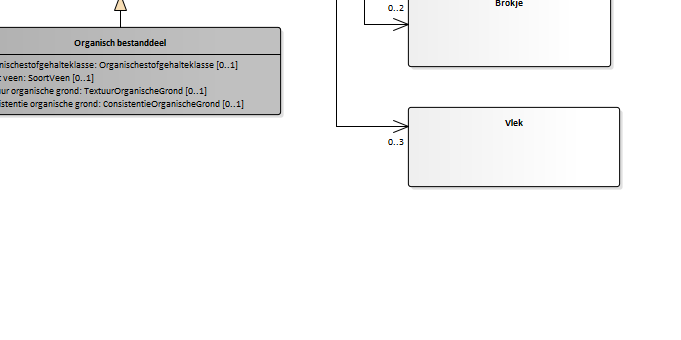
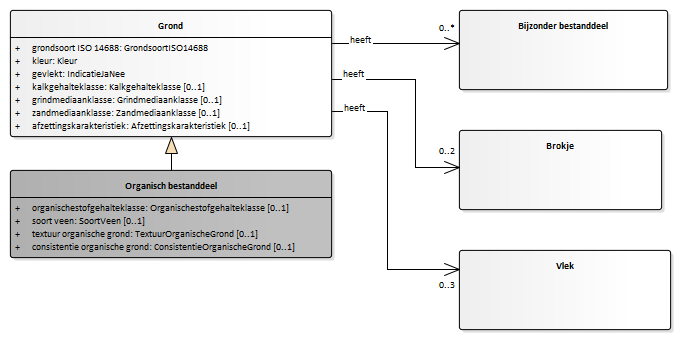
Conceptualmodel-ToegepastgeotechnischbooronderzoekBHR-AGconceptueel-0.1-1-20200401-20200514-223227

diff --git a/data/BHR-AG-cat.msword.html b/data/BHR-AG-cat.msword.html
@@ -13,7 +13,7 @@
    <body>
       <p>Conceptual model/Toegepast geotechnisch booronderzoek (BHR-AG) conceptueel/20200401</p>
       <p>Imvertor: 1.59.4</p>
-      <p>Model release: Conceptualmodel-ToegepastgeotechnischbooronderzoekBHR-AGconceptueel-0.1-1-20200401-20200514-220239</p>
+      <p>Model release: Conceptualmodel-ToegepastgeotechnischbooronderzoekBHR-AGconceptueel-0.1-1-20200401-20200514-223227</p>
       <hr>
       <section>
          <h1>Artikel 1 Definitie van registratieobject, entiteiten en attributen</h1>
@@ -121,14 +121,10 @@
                               
                               <p>De ondergrond wordt beschouwd als opgebouwd uit lagen en dat zijn homogene eenheden
                                  die zich vooral in horizontale richting uitstrekken en in verticale richting duidelijk
-                                 begrensd zijn. Een laag bestaat uit grond of uit bijzonder materiaal.
-                              </p>
-                              
-                              <p>Een laag in een boorprofiel is een laag waarvan de grenzen in de monsters bepaald
+                                 begrensd zijn. Een laag bestaat uit grond of uit bijzonder materiaal.<br clear="none">
+                                 Een laag in een boorprofiel is een laag waarvan de grenzen in de monsters bepaald
                                  of uit het boorgedrag afgeleid zijn of waarvan de grenzen kunstmatig zijn bepaald.
-                                 Onder NEN-EN-ISO 14688-1 kan de begrenzing voortkomen uit de methodiek omdat lagen
-                                 daarin een minimale en een maximale dikte kennen. In dat geval vertegenwoordigt de
-                                 laag in feite een beschrijfinterval. 
+                                 
                               </p>
                               
                            </td>
@@ -289,9 +285,8 @@
                               <td>
                                  
                                  <p>De <em>ondergrens</em> moet groter zijn dan de <em>bovengrens</em> van de laag.<br clear="none">
-                                    Het verschil tussen de <em>ondergrens</em> en de <em>bovengrens</em> van de laag mag niet kleiner zijn dan <em>0</em>.<em>02</em> meter.<br clear="none">
-                                    Het verschil tussen de <em>ondergrens</em> en de <em>bovengrens</em> van de laag mag niet groter zijn dan <em>1</em> meter.<br clear="none">
-                                    De <em>ondergrens</em> van de onderste laag mag niet groter zijn dan de waarde van het attribuut <em>einddiepte bemonstering</em> van de entiteit <em>Boring</em>.
+                                    Het verschil tussen de <em>ondergrens</em> en de <em>bovengrens</em> van de laag mag niet kleiner zijn dan <em>0</em>.<em>05</em> meter.<br clear="none">
+                                    Het verschil tussen de <em>ondergrens</em> en de <em>bovengrens</em> van de laag mag niet groter zijn dan <em>0</em>.<em>5</em> meter. 
                                  </p>
                                  
                               </td>
@@ -300,11 +295,8 @@
                               <th>Toelichting</th>
                               <td>
                                  
-                                 <p>In de beschrijfprocedure NEN-EN-ISO 14688-1 is vastgelegd dat een laag in het boorprofiel
-                                    minimaal 2 cm en maximaal 1 m dik is, met als uitzondering het geval waarin de monsters
-                                    zijn genomen met de bemonsteringsmethoden <em>opAfstandDroog, opAfstandNat, opAfstandNatBinnendoor, opAfstandNatBuitenlangs</em> en <em>opDiepteGrijpen</em>, want dan is een laag minimaal 10 cm dik. Dit betekent dat er minimaal iedere meter
-                                    van het bemonsterde traject een waarneming is gedaan.<br clear="none">
-                                    
+                                 <p>Een laag in het boorprofiel is minimaal 5 cm en maximaal 50 cm dik. Dit betekent dat
+                                    er minimaal iedere 5 centimeter van het bemonsterde traject een waarneming is gedaan.
                                  </p>
                                  
                               </td>
@@ -495,9 +487,9 @@
                </section><a class="anchor" id="graph_EAID_C8EE2C52_C5B2_420f_8A6B_5DC3D66481B1"></a><a class="anchor" id="global_class_Model_Grond"></a><section id="global_class_Model_Grond">
                   <h3>   Grond</h3>
                   <div class="imageinfo "><img src="Images/EAID_F06BCD69_2A9A_4c9b_A602_A07B1622CFDD.png" usemap="#imagemap-EAID_F06BCD69_2A9A_4c9b_A602_A07B1622CFDD" alt="Diagram "><map name="imagemap-EAID_F06BCD69_2A9A_4c9b_A602_A07B1622CFDD">
-                        <area shape="rect" alt="Vlek" coords="408,107,620,187" href="#graph_EAID_5CBC68BC_887F_481b_919F_50E6DDBAA8C2">
+                        <area shape="rect" alt="Vlek" coords="459,250,671,330" href="#graph_EAID_5CBC68BC_887F_481b_919F_50E6DDBAA8C2">
                         <area shape="rect" alt="Bijzonder bestanddeel" coords="459,10,668,90" href="#graph_EAID_3879AC64_BE06_4f16_8D2C_7A9036DEBFEA">
-                        <area shape="rect" alt="Brokje" coords="408,-13,611,67" href="#graph_EAID_D926F001_75F7_427d_9A13_9B67062086F4">
+                        <area shape="rect" alt="Brokje" coords="459,130,662,210" href="#graph_EAID_D926F001_75F7_427d_9A13_9B67062086F4">
                         <area shape="rect" alt="Grond" coords="10,10,332,137" href="#graph_EAID_C8EE2C52_C5B2_420f_8A6B_5DC3D66481B1"></map><p><b></b></p>
                   </div>
                   <table style="width: 100%;">
